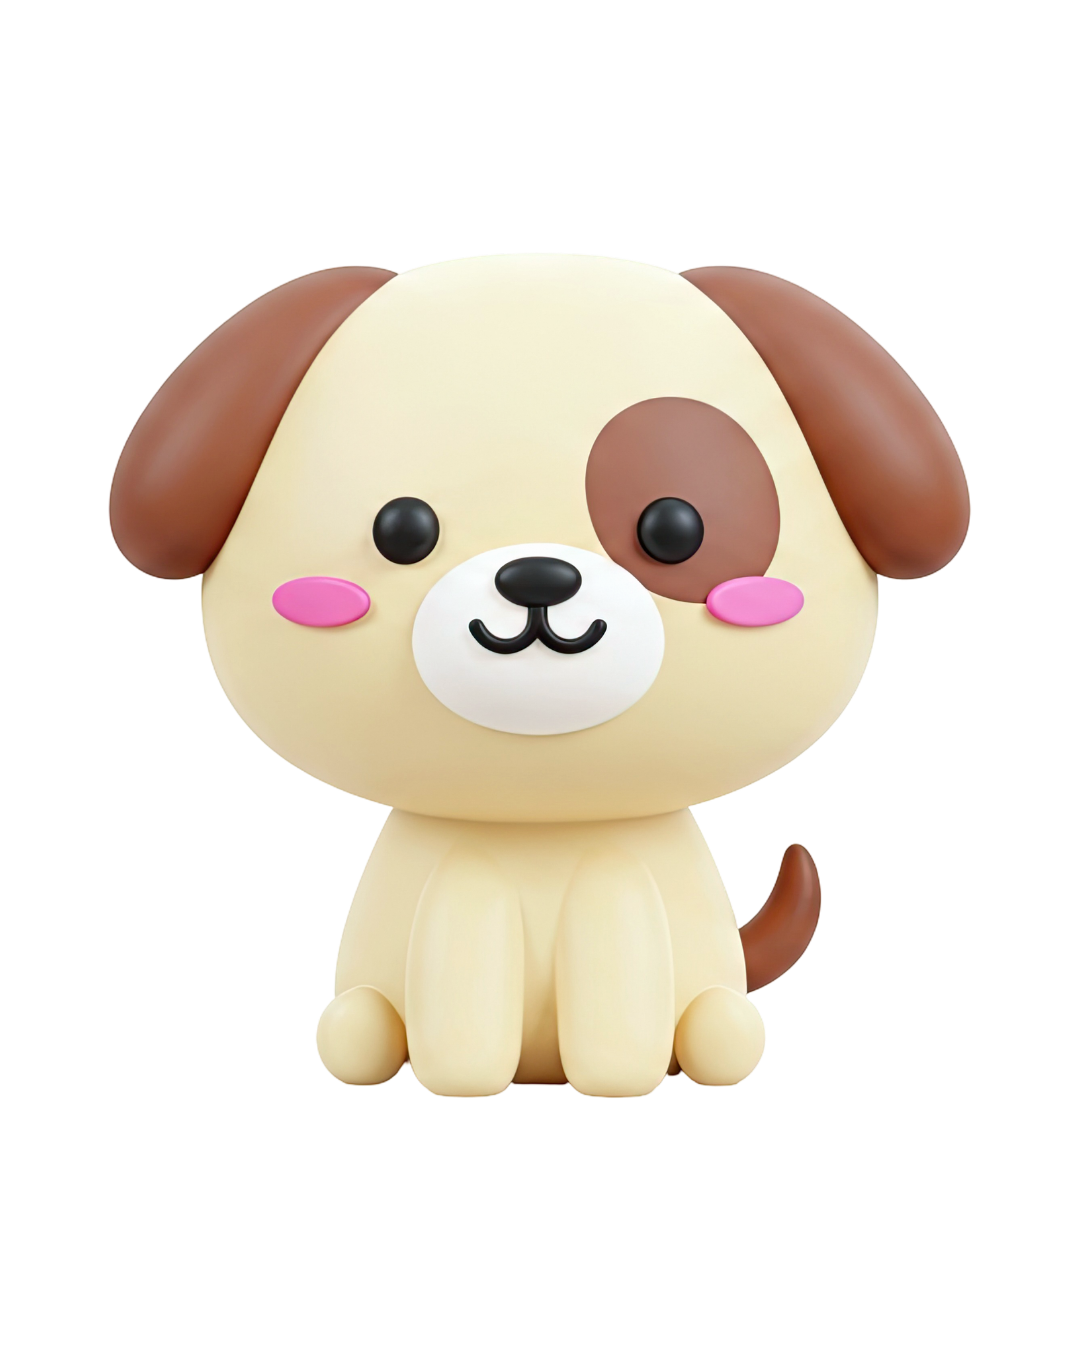
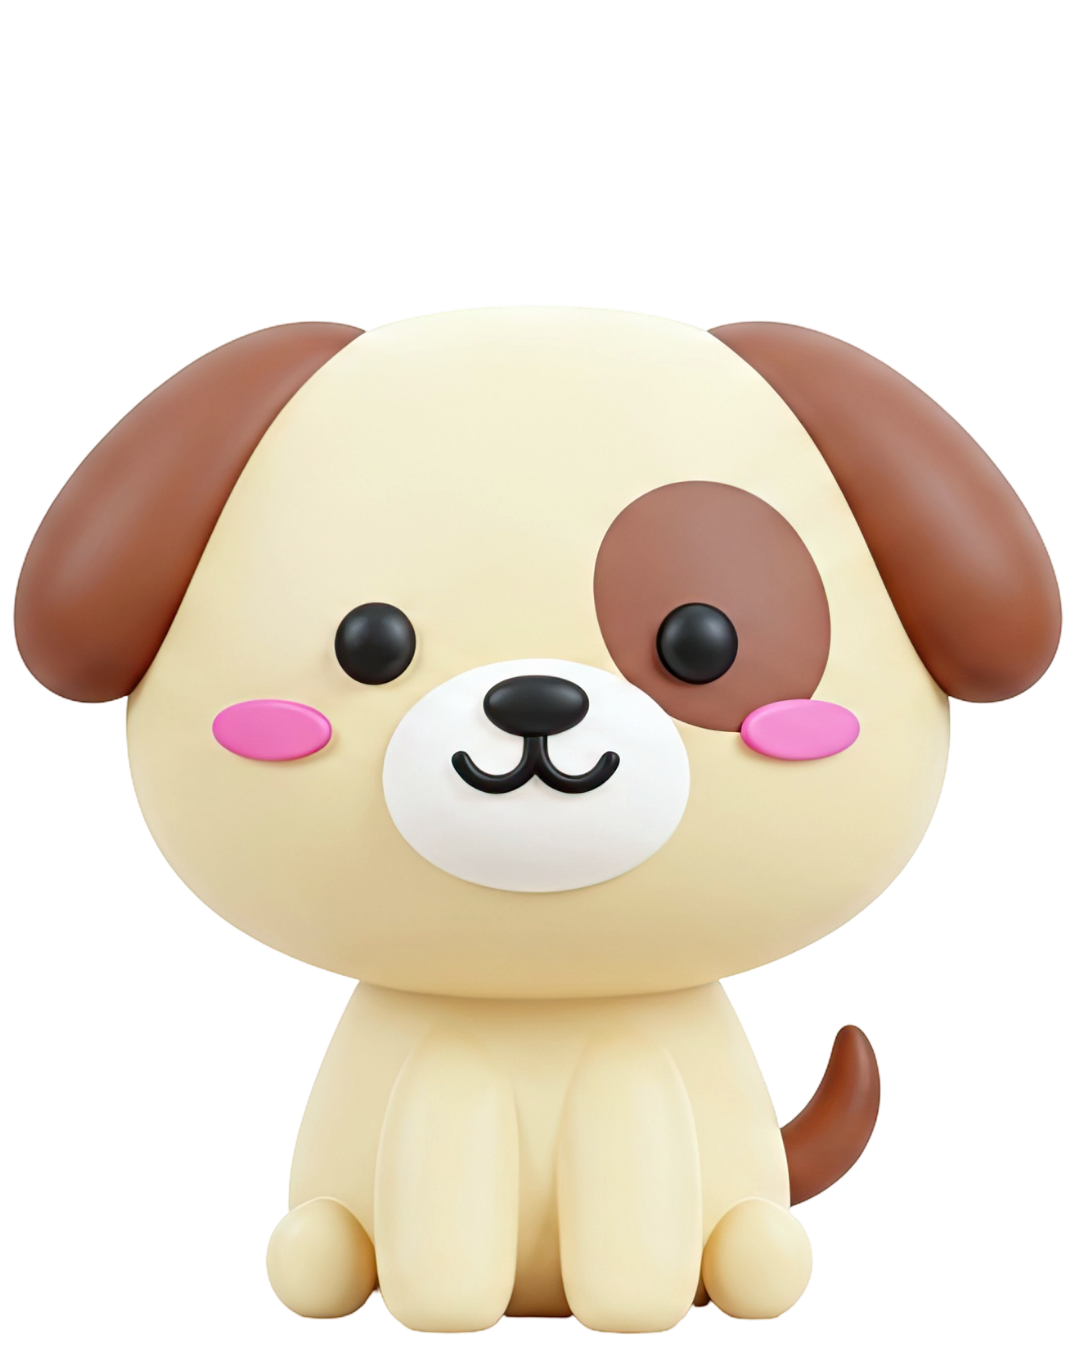
ajeitando o tamanho correto das decorações.

diff --git a/static/css/estante/style.css b/static/css/estante/style.css
@@ -368,25 +368,29 @@
     margin: 0 auto 5px;
 }
 
-
-.item-decoracao-estante {
-    width: 90px;
-    height: 90px;
-    object-fit: contain;
-    transition: transform 0.2s ease;
+.decoracao-estante {
+    position: relative;
+    display: flex;
+    align-items: flex-end;
+    justify-content: center;
+    width: 50px;
+    height: 120px;
+    margin: 0 10px;
+    align-self: flex-end;
+    flex: 0 0 auto;
 }
-
+.item-decoracao-estante {
+    display: block;
+    width: 100px;
+    height: 180px;
+    object-fit: contain;
+    object-position: center bottom;
+    transition: transform .2s ease;
+}
 .item-decoracao-estante:hover {
     transform: translateY(-5px);
 }
 
-.decoracao-estante {
-    width: 80px;
-    height: 120px;
-    object-fit: contain;
-    margin: 0 10px;
-    align-self: flex-end;
-}
 
 /* =========================================
    ARRASTAR LIVROS E DECORAÇÕES
